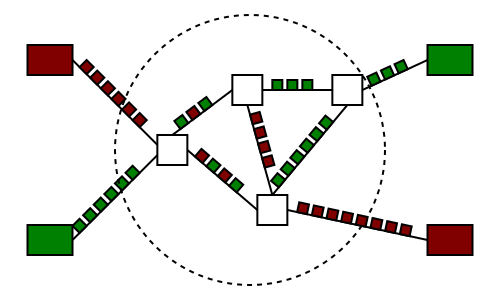
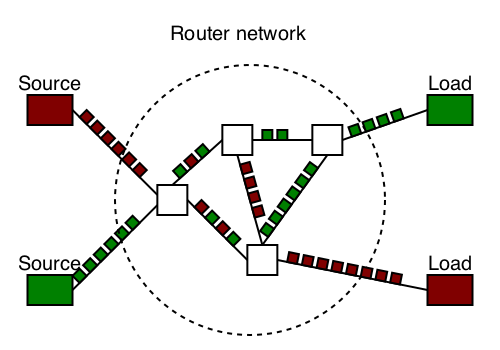
complete

diff --git a/power_packet.rb b/power_packet.rb
@@ -74,7 +74,7 @@ def line_with_packet_absolute(ctx, colors, start, sink, height)
 end
 
 SOURCE_WIDTH_RATIO = 1.5
-def source(ctx, color, start, height)
+def source_or_consumer(ctx, color, start, height)
     width = height * SOURCE_WIDTH_RATIO
     ctx.save do
         ctx.set_source_rgb(color.r, color.g, color.b)
@@ -87,10 +87,32 @@ def source(ctx, color, start, height)
         ctx.rectangle(start.x - width/2, start.y - height/2, width, height)
         ctx.stroke
     end
+
+    yield
+end
+
+def source(ctx, color, start, height)
+    source_or_consumer(ctx, color, start, height) do
+        ctx.save do
+            fp = start.up(height).left(height * SOURCE_WIDTH_RATIO).up(10).left(20)
+            ctx.move_to(fp.x, fp.y)
+            ctx.set_source_rgb(0,0,0)
+            ctx.set_font_size(20)
+            ctx.show_text("Source".encode('utf-8'))
+        end
+    end
 end
 
 def consumer(ctx, color, start, height)
-    source(ctx, color, start, height)
+    source_or_consumer(ctx, color, start, height) do
+        ctx.save do
+            fp = start.up(height).left(height * SOURCE_WIDTH_RATIO).up(10)#.left(40)
+            ctx.move_to(fp.x, fp.y)
+            ctx.set_source_rgb(0,0,0)
+            ctx.set_font_size(20)
+            ctx.show_text("Load".encode('utf-8'))
+        end
+    end
 end
 
 def router(ctx, start, height)
@@ -123,13 +145,22 @@ width = 500
 height = 300
 
 format = Cairo::FORMAT_ARGB32
-surface = Cairo::ImageSurface.new(format, width, height)
+surface = Cairo::ImageSurface.new(format, width, height + 50)
 ctx = Cairo::Context.new(surface)
 
 ctx.fill do
     ctx.set_source_rgb(1,1,1)
-    ctx.rectangle(0.0, 0.0, width,height) # background
+    ctx.rectangle(0.0, 0.0, width, height + 50) # background
 end
+
+ctx.save do
+    ctx.set_source_rgb(0,0,0)
+    ctx.move_to(width/5*2 - 30, 40)
+    ctx.set_font_size(20)
+    ctx.show_text("Router network")
+end
+
+ctx.translate(0, 50)
 
 s1 = Point.new(50, height/10*2)
 s2 = Point.new(50, height/10*8)
@@ -176,11 +207,11 @@ ctx.save do
 
     pt1 = power_line_end
     router(ctx, pt1, node_height)
-    pt2 = Point.new(pt1.x + width/10*1.5, pt1.y - height/5)
+    pt2 = Point.new(pt1.x + width/10*1.5, pt1.y - height/5).left(20)
     router(ctx, pt2, node_height)
-    pt3 = Point.new(pt1.x + width/10 * 2, pt1.y + height/5)
+    pt3 = Point.new(pt1.x + width/10 * 2, pt1.y + height/5).left(20)
     router(ctx, pt3, node_height)
-    pt4 = Point.new(pt2.x + width/10*2, pt2.y)
+    pt4 = Point.new(pt2.x + width/10*2, pt2.y).left(20)
     router(ctx, pt4, node_height)
 
     line_with_packet_absolute(
